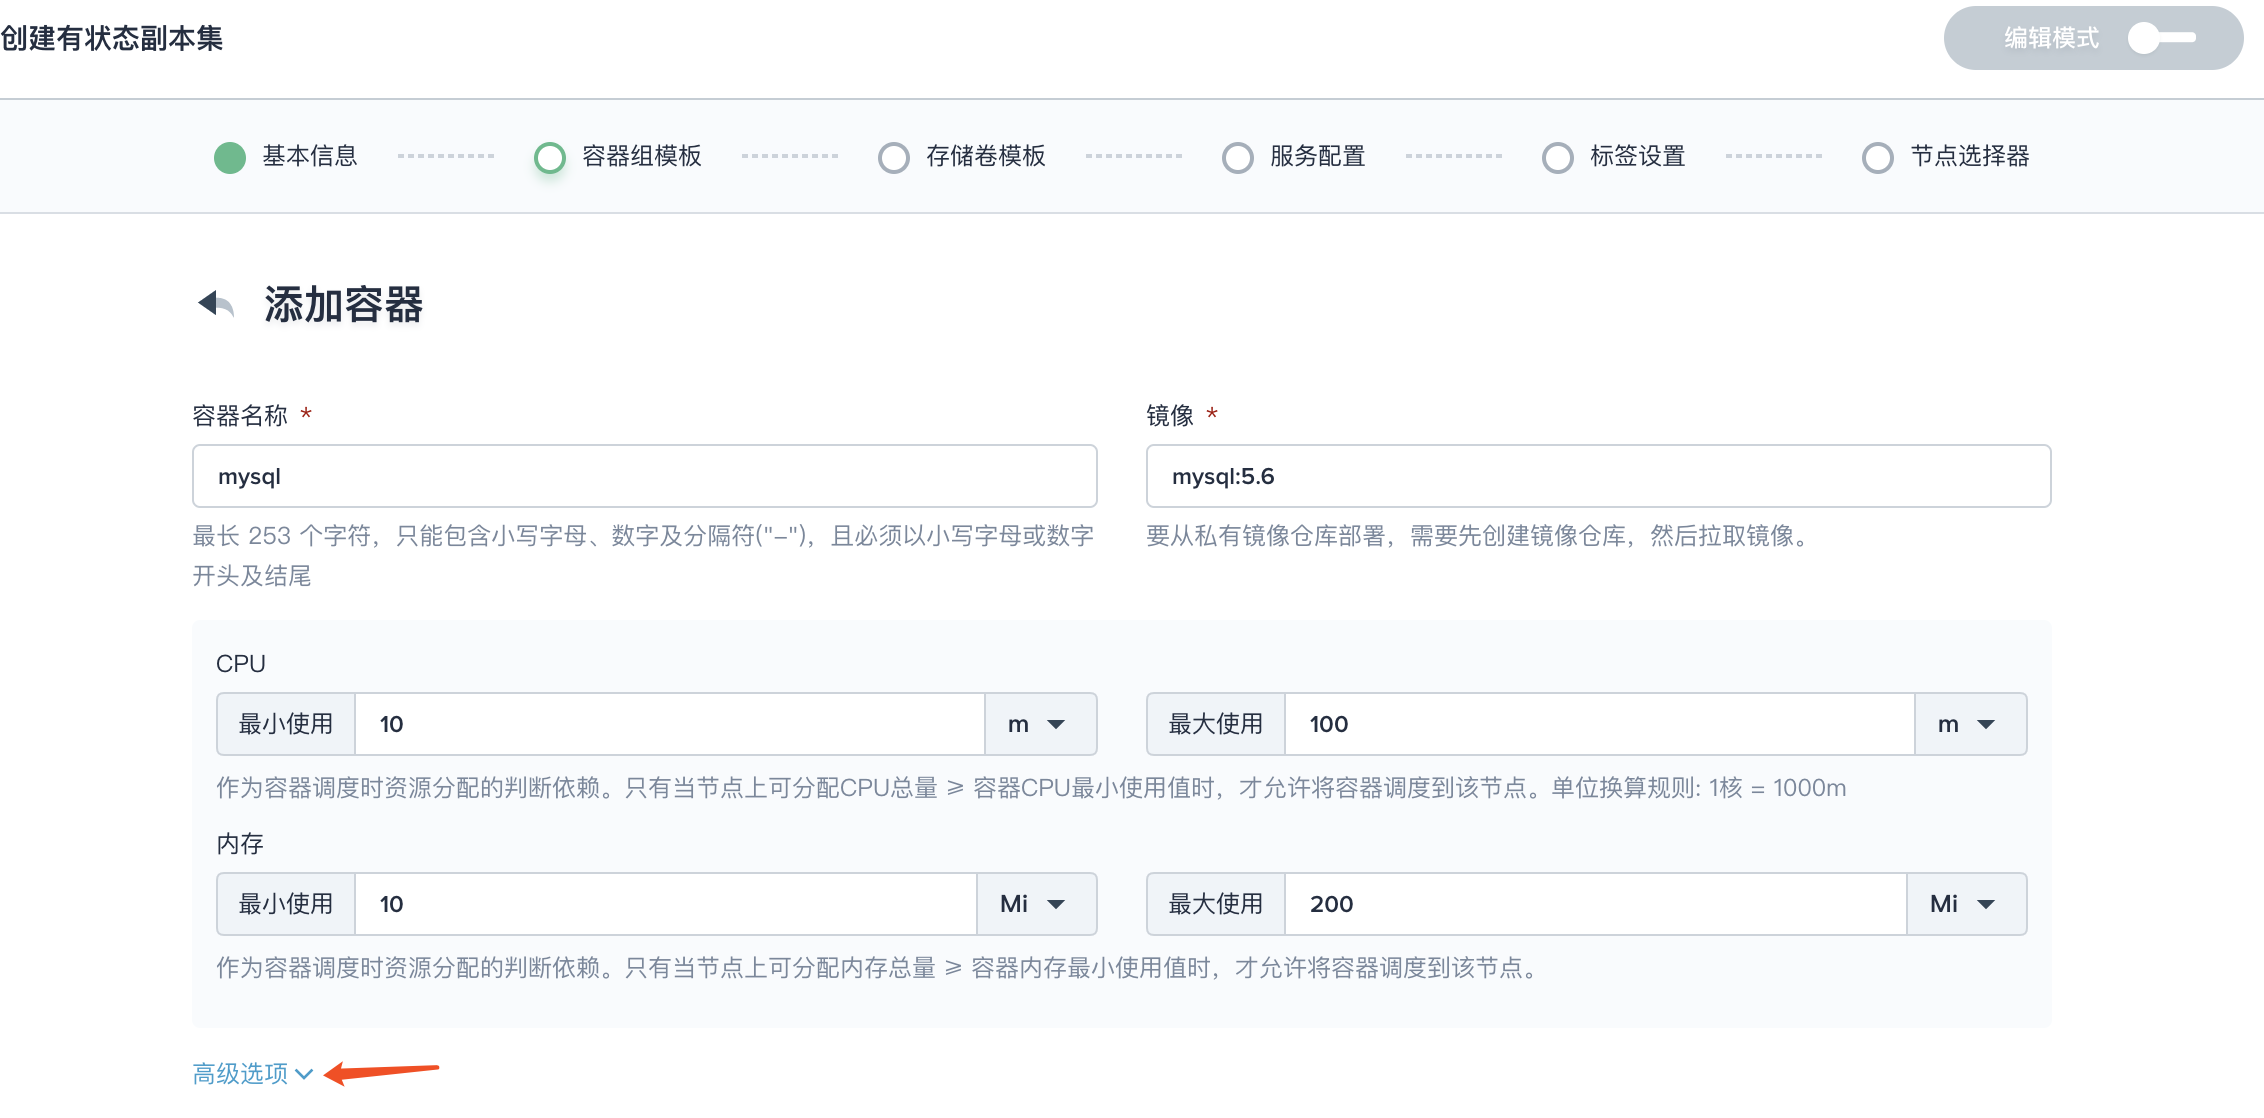
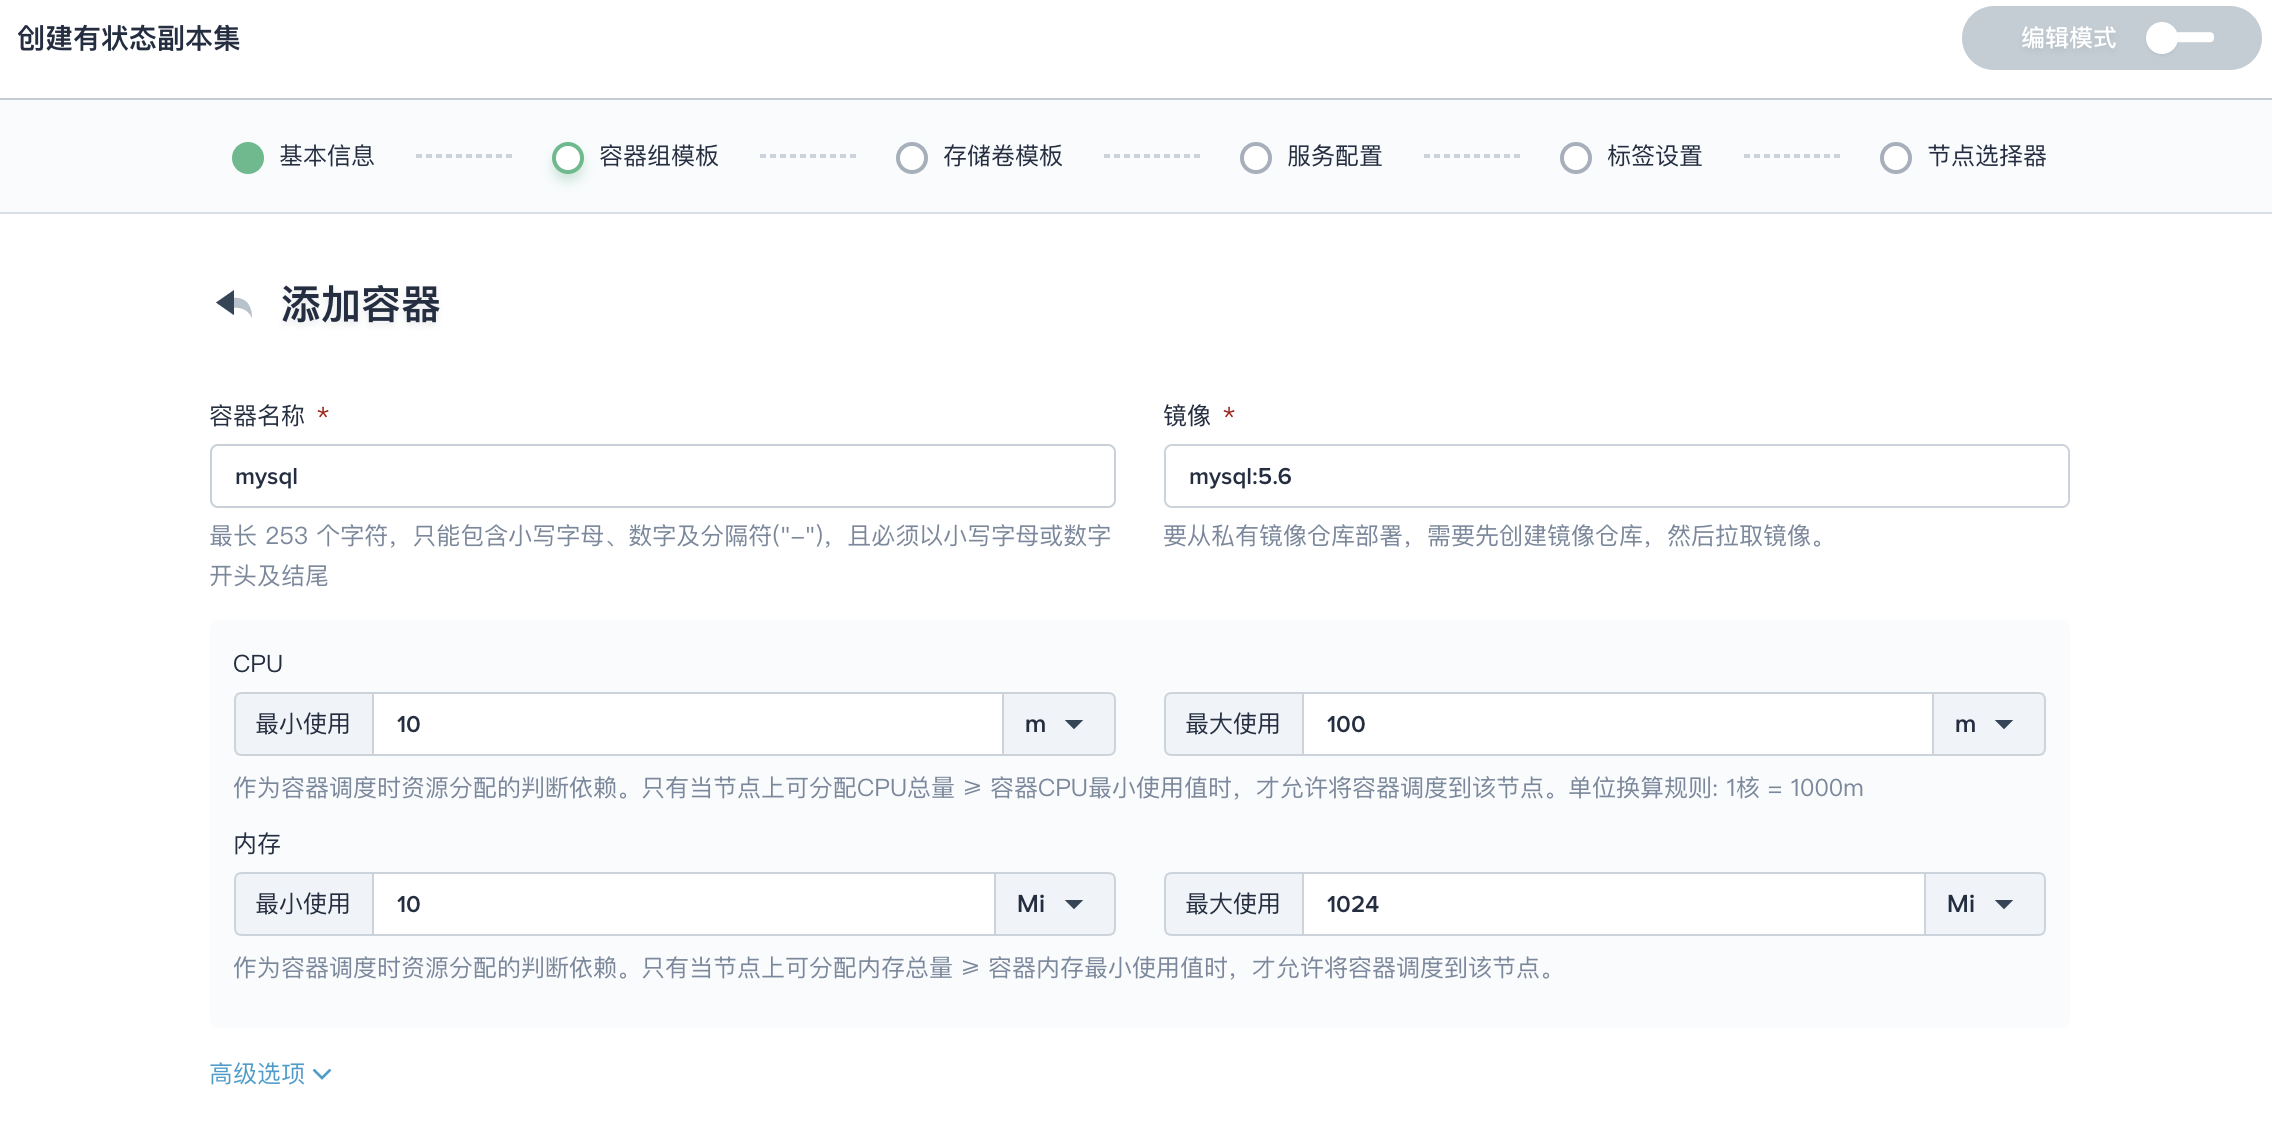
update upgrade guide and mysql quick start, add En quick start

diff --git a/content/advanced-v1.0.0/en/quick-start/admin-quick-start.md b/content/advanced-v1.0.0/en/quick-start/admin-quick-start.md
@@ -1,5 +1,141 @@
 ---
-title: "Quick Start For Admin"
+title: "Admin Quick Start Guide"
 ---
 
+## Target
+
 This document is intended for cluster admin who are new to KubeSphere, guiding users to create workspace, creating new roles and accounts, and then inviting new users into the workspace to create their projects and DevOps projects, as well as guiding cluster admin to use the web Kubectl tool. Help users become familiar with users and roles management under multi-tenancy, and the use of web Kubectl tools to get started with KubeSphere.
+
+## Prerequisites
+
+- You need to install KubeSphere to the target machine. 
+- You need a default admin account which is used to log in to KubeSphere.
+
+### Estimated time
+
+About 15 minutes.
+
+## Example
+
+### Cluster Admin
+
+#### Step 1: Create roles and accounts
+
+The cluster-admin role is able to create accounts for other users and assign them roles. There are three common roles:
+
+- cluster-admin
+- cluster-regular 
+- workspaces-manager
+
+As well as support user-defined roles which is much fine-grained.
+
+This example first creates a new role (user-manager), grants account management and role management permissions to the role, then creates an account and grants the user-manager role to the account.
+
+|Account Name|Cluster Role|Responsibility|
+|---|---|---|
+|user-manager|user-manager|Manage cluster accounts and roles|
+
+1.1 Click **Platform**, then navigate to **Platform Roles** page and click **Create** to create a role which is used to manage all accounts and roles.
+
+![create roles](/admin-create-role-en.png)
+
+1.2. Fill in the basic information and permission settings of the role.
+
+- Name: A simple and concise name for users to browse and search, such as user-manager.
+- Description: A brief description of the role, such as managing accounts and roles.
+
+![基本信息](/role-basic-en.png)
+
+1.3. Check all of the boxes for both Account Management and Role Management, then click **Create**.
+
+![权限列表](/authority-list-en.png)
+
+1.4. Click **Platform**, then navigate to **Accounts** page and click **Create** to create a account.
+
+![创建账号](/account-list-en.png)
+
+1.5. Fill in the basic information, notice that select `user-manger` as its role.
+ 
+![添加用户](/demo-account-en.png)
+
+1.6. Sign in with the `user manager`, then navigate to **Account** and create 4 accounts according to the following chart. Please reference the above steps to create these 4 accounts since .
+
+|Account Name|Cluster Role|Workspace Role|Responsibility|
+|---|---|---|---|
+|ws-manager|workspaces-manager|workspace-admin (Default)|Create and manage all workspaces|
+|ws-admin|cluster-regular|workspace-admin|Manage all resources under the workspaces<br> (This example is used to invite new members to join the workspace.)|
+|project-admin|cluster-regular|workspace-regular|Create and manage projects, DevOps projects, invite new members|
+|project-regular|cluster-regular|workspace-regular|The user named project-regular will be invited to the project and DevOps project by the project-admin, <br> and project-regular is used to create workloads, Pipeline and other resources under the project|
+
+1.7. Verify the newly created four accounts.
+
+![查看账号列表](/user-manager-list-en.png)
+
+### Workspace Admin
+
+#### Step 2: Create a Workspace
+
+KubeSphere Workspace is multi-tenancy based and is the basic unit for projects, DevOps projects, and workspace members management.
+
+2.1. Sign in with `ws-manager` who is able to manage all workspaces.
+
+There is only a system-workspace which is used to run the related components and services in KubeSphere, do not delete system-workspace.
+
+First, click **Create** button.
+
+![企业空间列表](/how-to-create-workspace-en.png)
+
+2.2. Fill in the basic information according to the following screenshot. Generally, the creator of the workspace also serve as the workspace admin who has the highest administrative rights of the workspace.
+
+![填写基本信息](/demo-workspace-en.png)
+
+2.3. Sign in with `ws-admin` after `demo-workspace` has been created. Then choose **Worksapce Management → Members Management** and click **Invite Member**.
+
+![邀请成员](/workspace-member-list-en.png)
+
+2.4. Invite both `project-admin` and `project-regular` and grant them `workspace-regular` accordingly.
+
+![邀请 project-regular](/invite-operator-user-en.png)
+
+### Project and DevOps Admin
+
+#### Step 3: Create a Project
+
+3.1. Sign in with `project-admin` and choose **create**, then select **Create a resource project**.
+
+![企业空间列表](/workspace-list-demo-en.png)
+
+3.2. Fill in the basic information and advanced settings of the project according to the following screenshot, then click **Next**.
+
+![创建项目](/create-project-basic-en.png)
+
+3.3. The requests and limits can be remained as default value if you don't have special requirements. You can click **create** directly using the default values in this demo.
+
+![高级设置](/namespace-limit-request-1-en.png)
+
+3.4. Enter into the demo-namespace, then invite `project-regular` to demo-namespace.
+
+3.5. Choosing **Project Settings → Project Members** and click **Invite Member**.
+
+![邀请成员](/invite-operator-to-ns-en.png)
+
+3.6. Invite `project-regular` to this project and grant this user **operator** accordingly.
+
+![邀请 operator](/grant-role-to-operator-en.png)
+
+#### Step 4: Create DevOps Project
+
+4.1. In this step, navigate to the **Workbench** and choose `DevOps Projects` tap, then click **Create** and select **Create a DevOps project**.
+
+![创建 DevOps](/docs-demo-devops-en.png)
+
+4.2. Fill in the basic information, e.g. `demo-devops`.
+
+![devops_create_project](/devops_create_project-1-en.png)
+
+4.3. Enter into `demo-devops` page.
+
+4.4. Similarly, navigate to **Project Management → Project Members**. Then click **Invite Member** and grant `project-regular` as the role of `maintainer`, which is used to create pipeline, credentials, etc.
+
+
+

diff --git a/content/advanced-v1.0.0/zh-CN/installation/upgrade.md b/content/advanced-v1.0.0/zh-CN/installation/upgrade.md
@@ -2,9 +2,9 @@
 title: "升级"
 ---
 
-KubeSphere 目前最新的版本 1.0.1 已发布，该版本对 1.0.0 进行了改进和功能优化，并修复了已知的 Bug，关于 1.0.1 的更新详情可参考 [Release Note - v1.0.1](../../release/release-v101)。
+KubeSphere 目前最新的版本 1.0.1 已发布，该版本对 1.0.0 进行了改进和功能优化，并修复了已知的 Bug，更新详情可参考 [Release Note - v1.0.1](../../release/release-v101)。
 
-若您的机器已安装的环境为 1.0.0 版本，我们强烈建议您升级至最新的版本 1.0.1，最新的 Installer 支持将 KubeSphere 从 1.0.0 环境一键升级至目前最新的 1.0.1，无需卸载和重新安装，同时支持升级 Kubernetes 和 etcd 至当前指定的版本，升级过程中所有节点将会逐个升级，可能会出现短暂的应用服务中断现象。
+若您已安装的环境为 1.0.0 版本，我们强烈建议您升级至最新的版本 1.0.1，最新的 Installer 支持将 KubeSphere 从 1.0.0 一键升级至 1.0.1，无需卸载和重新安装；同时支持升级 Kubernetes 和 etcd 至指定版本，升级过程中所有节点将会逐个升级，可能会出现短暂的应用服务中断现象，请您安排合理的升级时间。
 
 > 说明：
 >
@@ -42,27 +42,27 @@ etcd_version: v3.2.18
 
 ### 第二步：修改配置文件 
 
-升级将默认以 1.0.1 的 conf 目录下的配置文件进行升级，因此在升级前需要将 1.0.0 中 conf 下的配置文件中修改过的参数都同步到 1.0.1，修改配置文件分以下两种情况：
+升级将默认读取 1.0.1 的 conf 目录下的配置文件，因此在升级前需要将 1.0.0 中 conf 下的配置文件中的参数都同步到 1.0.1 版本安装包的对应文件中，修改配置文件分以下两种情况：
 
 #### All-in-One
 
-若 1.0.0 是以 **all-in-one** 模式安装的单节点集群，那么升级前在 1.0.1 中无需修改 `conf/hosts.ini` 文件，但需要确认 1.0.0 的 `conf/vars.yml` 参数配置是否修改，若在 1.0.0 中已作修改则需要在 1.0.1 中同步所有修改的参数。
+若 1.0.0 是以 **all-in-one** 模式安装的单节点集群，那么升级前在 1.0.1 中无需修改 `conf/hosts.ini` 文件，仅需要确认 1.0.0 的 `conf/vars.yml` 参数配置是否修改，若有修改则需要在 1.0.1 的对应文件中同步所有修改的参数。
 
-例如，目前 1.0.1 中默认使用 [Local](https://kubernetes.io/docs/concepts/storage/volumes/#local) 作为存储类型，如果 1.0.0 配置和使用的是 QingCloud 块存储、NFS、Ceph RBD 或 GlusterFS 这一类存储，那么在 `vars.yml` 中需要修改成对应的存储配置参数，并将 Local 的存储配置部分设置为 false，参数释义详见 [存储配置参数](../storage-configuration)。
+例如，目前 1.0.1 中默认使用 [Local](https://kubernetes.io/docs/concepts/storage/volumes/#local) 作为存储类型，如果您的 1.0.0 配置使用了其它存储类型，如 QingCloud 块存储、NFS、Ceph RBD 或 GlusterFS 等，那么在 1.0.1 安装包的 `conf/vars.yml` 中也需要进行相应的设置（即与1.0.0的配置保持一致），并将 Local 的存储配置设置为 false，参数释义详见 [存储配置参数](../storage-configuration)。
 
 #### Multi-Node 
 
-若 1.0.0 是以 **multi-node** 模式安装的多节点集群，那么升级前需将 1.0.0 的 `conf/hosts.ini` 和 `conf/vars.yaml` 中的配置都同步到 1.0.1 的对应文件中：
-   - 将 1.0.0 的 `conf/hosts.ini` 中的主机参数配置覆盖至 1.0.1 的 `conf/hosts.ini`，参数释义详见 [Multi-Node 模式 - 准备安装配置文件](../multi-node)。
-   - 将 1.0.0 的 `conf/vars.yml` 中所有修改过的参数配置同步至 1.0.1 的 `conf/vars.yml`。例如，1.0.0 配置使用的是 QingCloud 块存储、NFS、Ceph RBD 或 GlusterFS 这一类存储，那么在 `conf/vars.yml` 中也需要修改成对应的存储配置参数，并将 Local 的存储配置部分设置为 false，参数释义详见 [存储配置参数](../storage-configuration)。 
+若 1.0.0 是以 **multi-node** 模式安装的多节点集群，那么升级前需将当前的 `conf/hosts.ini` 和 `conf/vars.yaml` 中的配置都同步到 1.0.1 的对应文件中：
+   - 将 1.0.0 的 `conf/hosts.ini` 中的主机参数配置覆盖至 1.0.1 安装包的 `conf/hosts.ini`，参数释义详见 [Multi-Node 模式 - 准备安装配置文件](../multi-node)。
+   - 将 1.0.0 的 `conf/vars.yml` 中所有修改过的参数配置同步至 1.0.1 的 `conf/vars.yml`。例如，1.0.0 配置使用的是 QingCloud 块存储、NFS、Ceph RBD 或 GlusterFS 这一类存储，那么在 1.0.1 安装包的 `conf/vars.yml` 中也要进行相应的设置（即与 1.0.0 的配置保持一致），并将 Local 的存储配置设置为 false，参数释义详见 [存储配置参数](../storage-configuration)。 
 
-> 注意：`conf/vars.yml` 中的配置都是 `key:value` 的形式，QingCloud CSI 和 NFS in Kubernetes 在 1.0.1 的 `conf/vars.yml` 中 key 已作修改，若使用了这两类存储则应使用 1.0.1 中的 key。
+> 注意：`conf/vars.yml` 中的配置项都是 `key:value` 的形式，QingCloud CSI 和 NFS in Kubernetes 两项配置的 key 在 1.0.1 已更新，若配置了这两类存储则应使用 1.0.1 中的 key。
 
 ### 第三步：开始升级
 
 参考如下步骤进行升级：
 
-3.1. 在 `kubesphere-all-advanced-1.0.1` 目录下进入 `/script` 目录，执行 `upgrade.sh` 脚本，建议使用 root 用户：
+3.1. 在 `kubesphere-all-advanced-1.0.1` 目录下进入 `/script` 目录，执行 `upgrade.sh` 脚本，建议使用 **root** 用户：
 
 ```bash
 $ ./upgrade.sh

diff --git a/content/advanced-v1.0.0/zh-CN/quick-start/admin-quick-start.md b/content/advanced-v1.0.0/zh-CN/quick-start/admin-quick-start.md
@@ -78,9 +78,9 @@ title: "管理员快速入门"
 
 企业空间 (workspace) 是 KubeSphere 实现多租户模式的基础，是用户管理项目、DevOps 工程和企业成员的基本单位。
 
-2.1. 切换为 `admin` 登录 KubeSphere，admin 有权限查看平台的所有企业空间。
+2.1. 切换为 `ws-manager` 登录 KubeSphere，ws-manager 有权限查看和管理平台的所有企业空间。
 
-点击`企业空间`，可见新安装的环境只有一个系统默认的企业空间 **system-workspace** ，用于运行 KubeSphere 平台相关组件和服务，禁止删除该企业空间。
+点击 `企业空间`，可见新安装的环境只有一个系统默认的企业空间 **system-workspace**，用于运行 KubeSphere 平台相关组件和服务，禁止删除该企业空间。
 
 在企业空间列表点击 **创建**；
 

diff --git a/content/advanced-v1.0.0/zh-CN/installation/multi-node.md b/content/advanced-v1.0.0/zh-CN/installation/multi-node.md
@@ -20,7 +20,7 @@ title: "Multi-Node 模式"
 | CentOS 7.5 (64 bit) | CPU：4 核 <br/> 内存：8 G <br/> 系统盘：40 G | CPU：8 核 <br/> 内存：16 G <br/> 系统盘：不小于 100 G |
 | Ubuntu 16.04/18.04 LTS (64 bit) | CPU：4 核 <br/> 内存：8 G <br/> 系统盘：40 G | CPU：8 核 <br/> 内存：16 G <br/> 系统盘：不小于 100 G |
 |Red Hat Enterprise Linux Server 7.4 (64 bit) | CPU：4 核 <br/> 内存：8 G <br/> 系统盘：40 G | CPU：8 核 <br/> 内存：16 G <br/> 系统盘：不小于 100 G |
-|Debian Stretch 9.5 (64 bit)| CPU：4 核 <br/> 内存：8 G <br/> 系统盘：100 G | CPU：8 核 <br/> 内存：16 G <br/> 系统盘：不小于 100 G |
+|Debian Stretch 9.5 (64 bit)| CPU：4 核 <br/> 内存：8 G <br/> 系统盘：40 G | CPU：8 核 <br/> 内存：16 G <br/> 系统盘：不小于 100 G |
 
 
 

diff --git a/content/advanced-v1.0.0/zh-CN/quick-start/mysql-deployment.md b/content/advanced-v1.0.0/zh-CN/quick-start/mysql-deployment.md
@@ -66,7 +66,9 @@ MySQL 的环境变量 `MYSQL_ROOT_PASSWORD` 即 root 用户的密码属于敏感
 
 #### 第四步：容器组模板
 
-4.1. 点击 **添加容器**，填写容器组设置，名称可由用户自定义，镜像填写 `mysql:5.6`（应指定镜像版本号)，CPU 和内存此处暂不作限定，将使用在创建项目时指定的默认请求值，展开 **高级选项**。
+4.1. 点击 **添加容器**，填写容器组设置，名称可由用户自定义，镜像填写 `mysql:5.6`（应指定镜像版本号)，CPU 此处暂不作限定，将使用在创建项目时指定的默认请求值，内存的 `最大使用` 设置为 1024 Mi (即 1 Gi)。
+
+展开 **高级选项**。
 
 ![添加容器](/demo1-step2.png)
 
